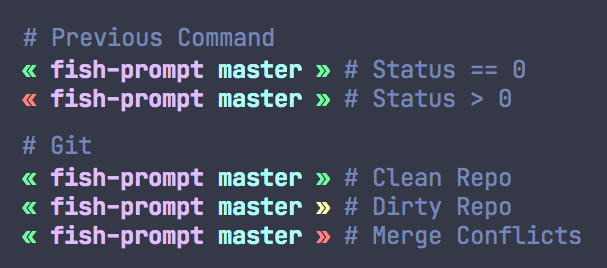
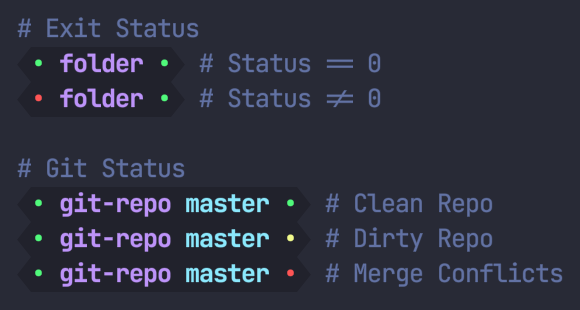
Style changes and refactoring
- Add Powerline-style background
- Refactor prompt rendering into `_render_prompt` function
- Add script for generating screenshot output
- Update screenshot
- README tweaks

diff --git a/README.md b/README.md
@@ -1,7 +1,7 @@
 # Fish Prompt
 
-A simple shell prompt for [`fish`](https://fishshell.com/), with previous
-command and Git info.
+A simple shell prompt for [`fish`](https://fishshell.com/), with exit status and
+Git status indicators.
 
 ![Screenshot](screenshot.png)
 
